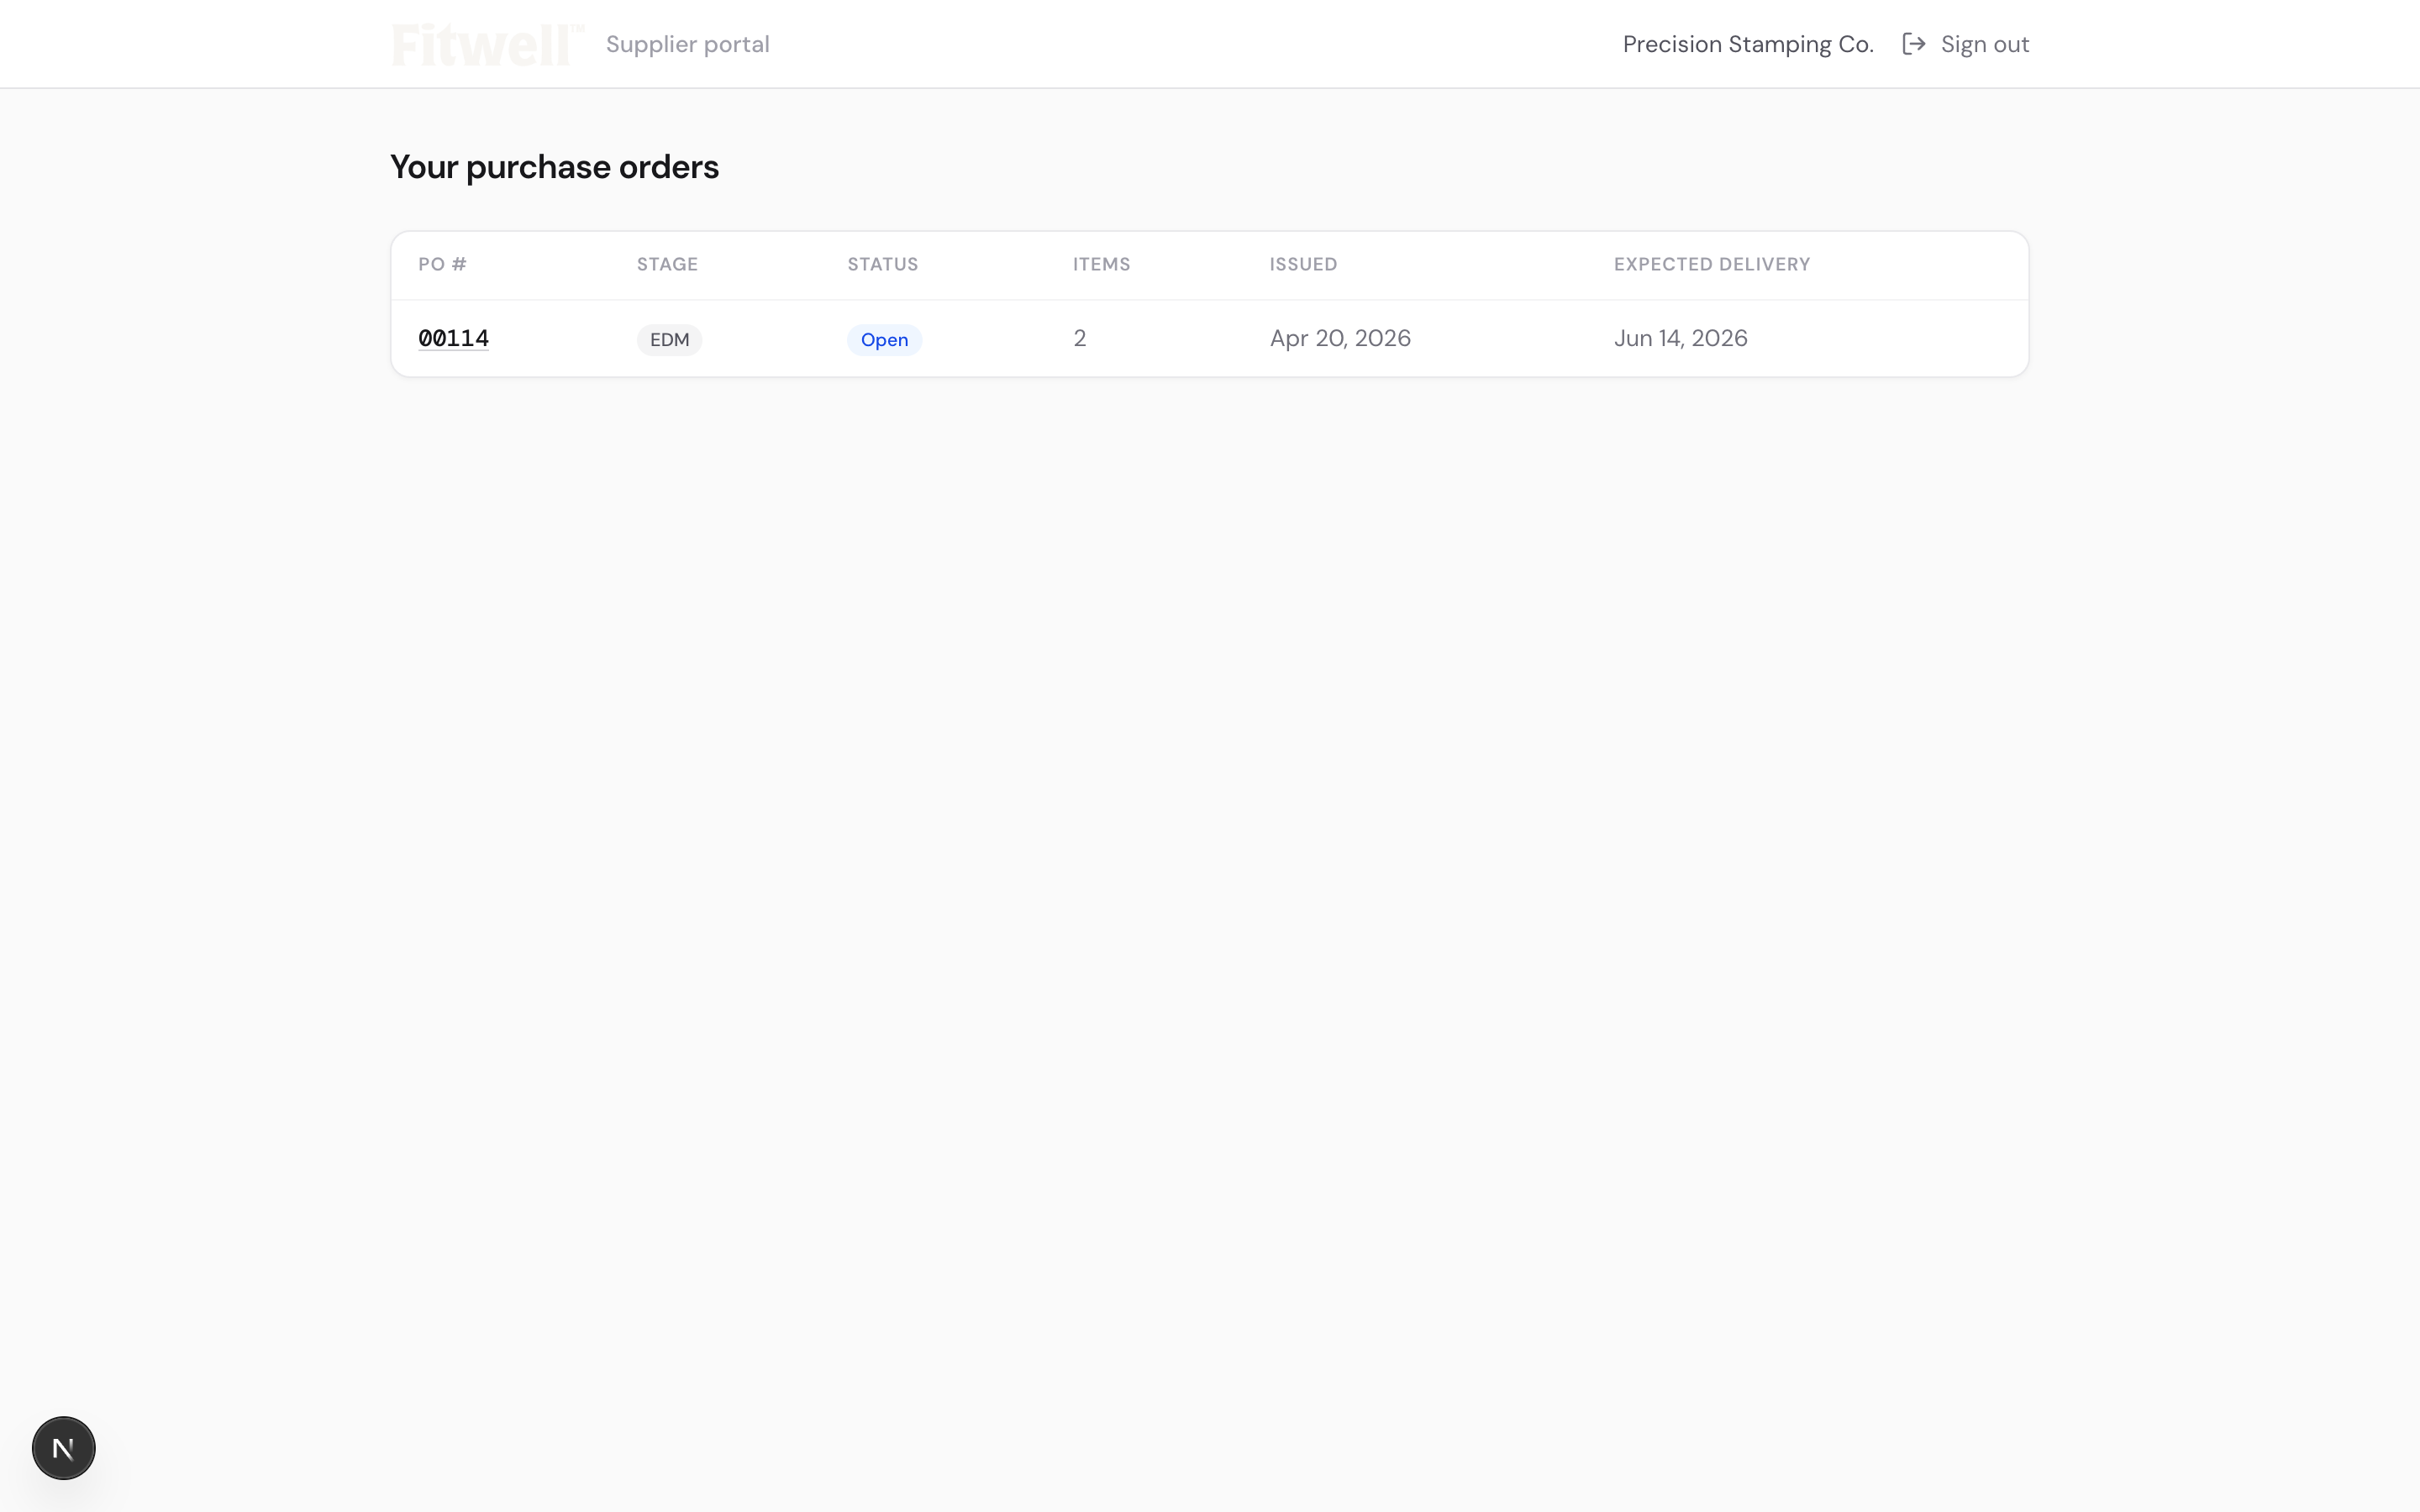
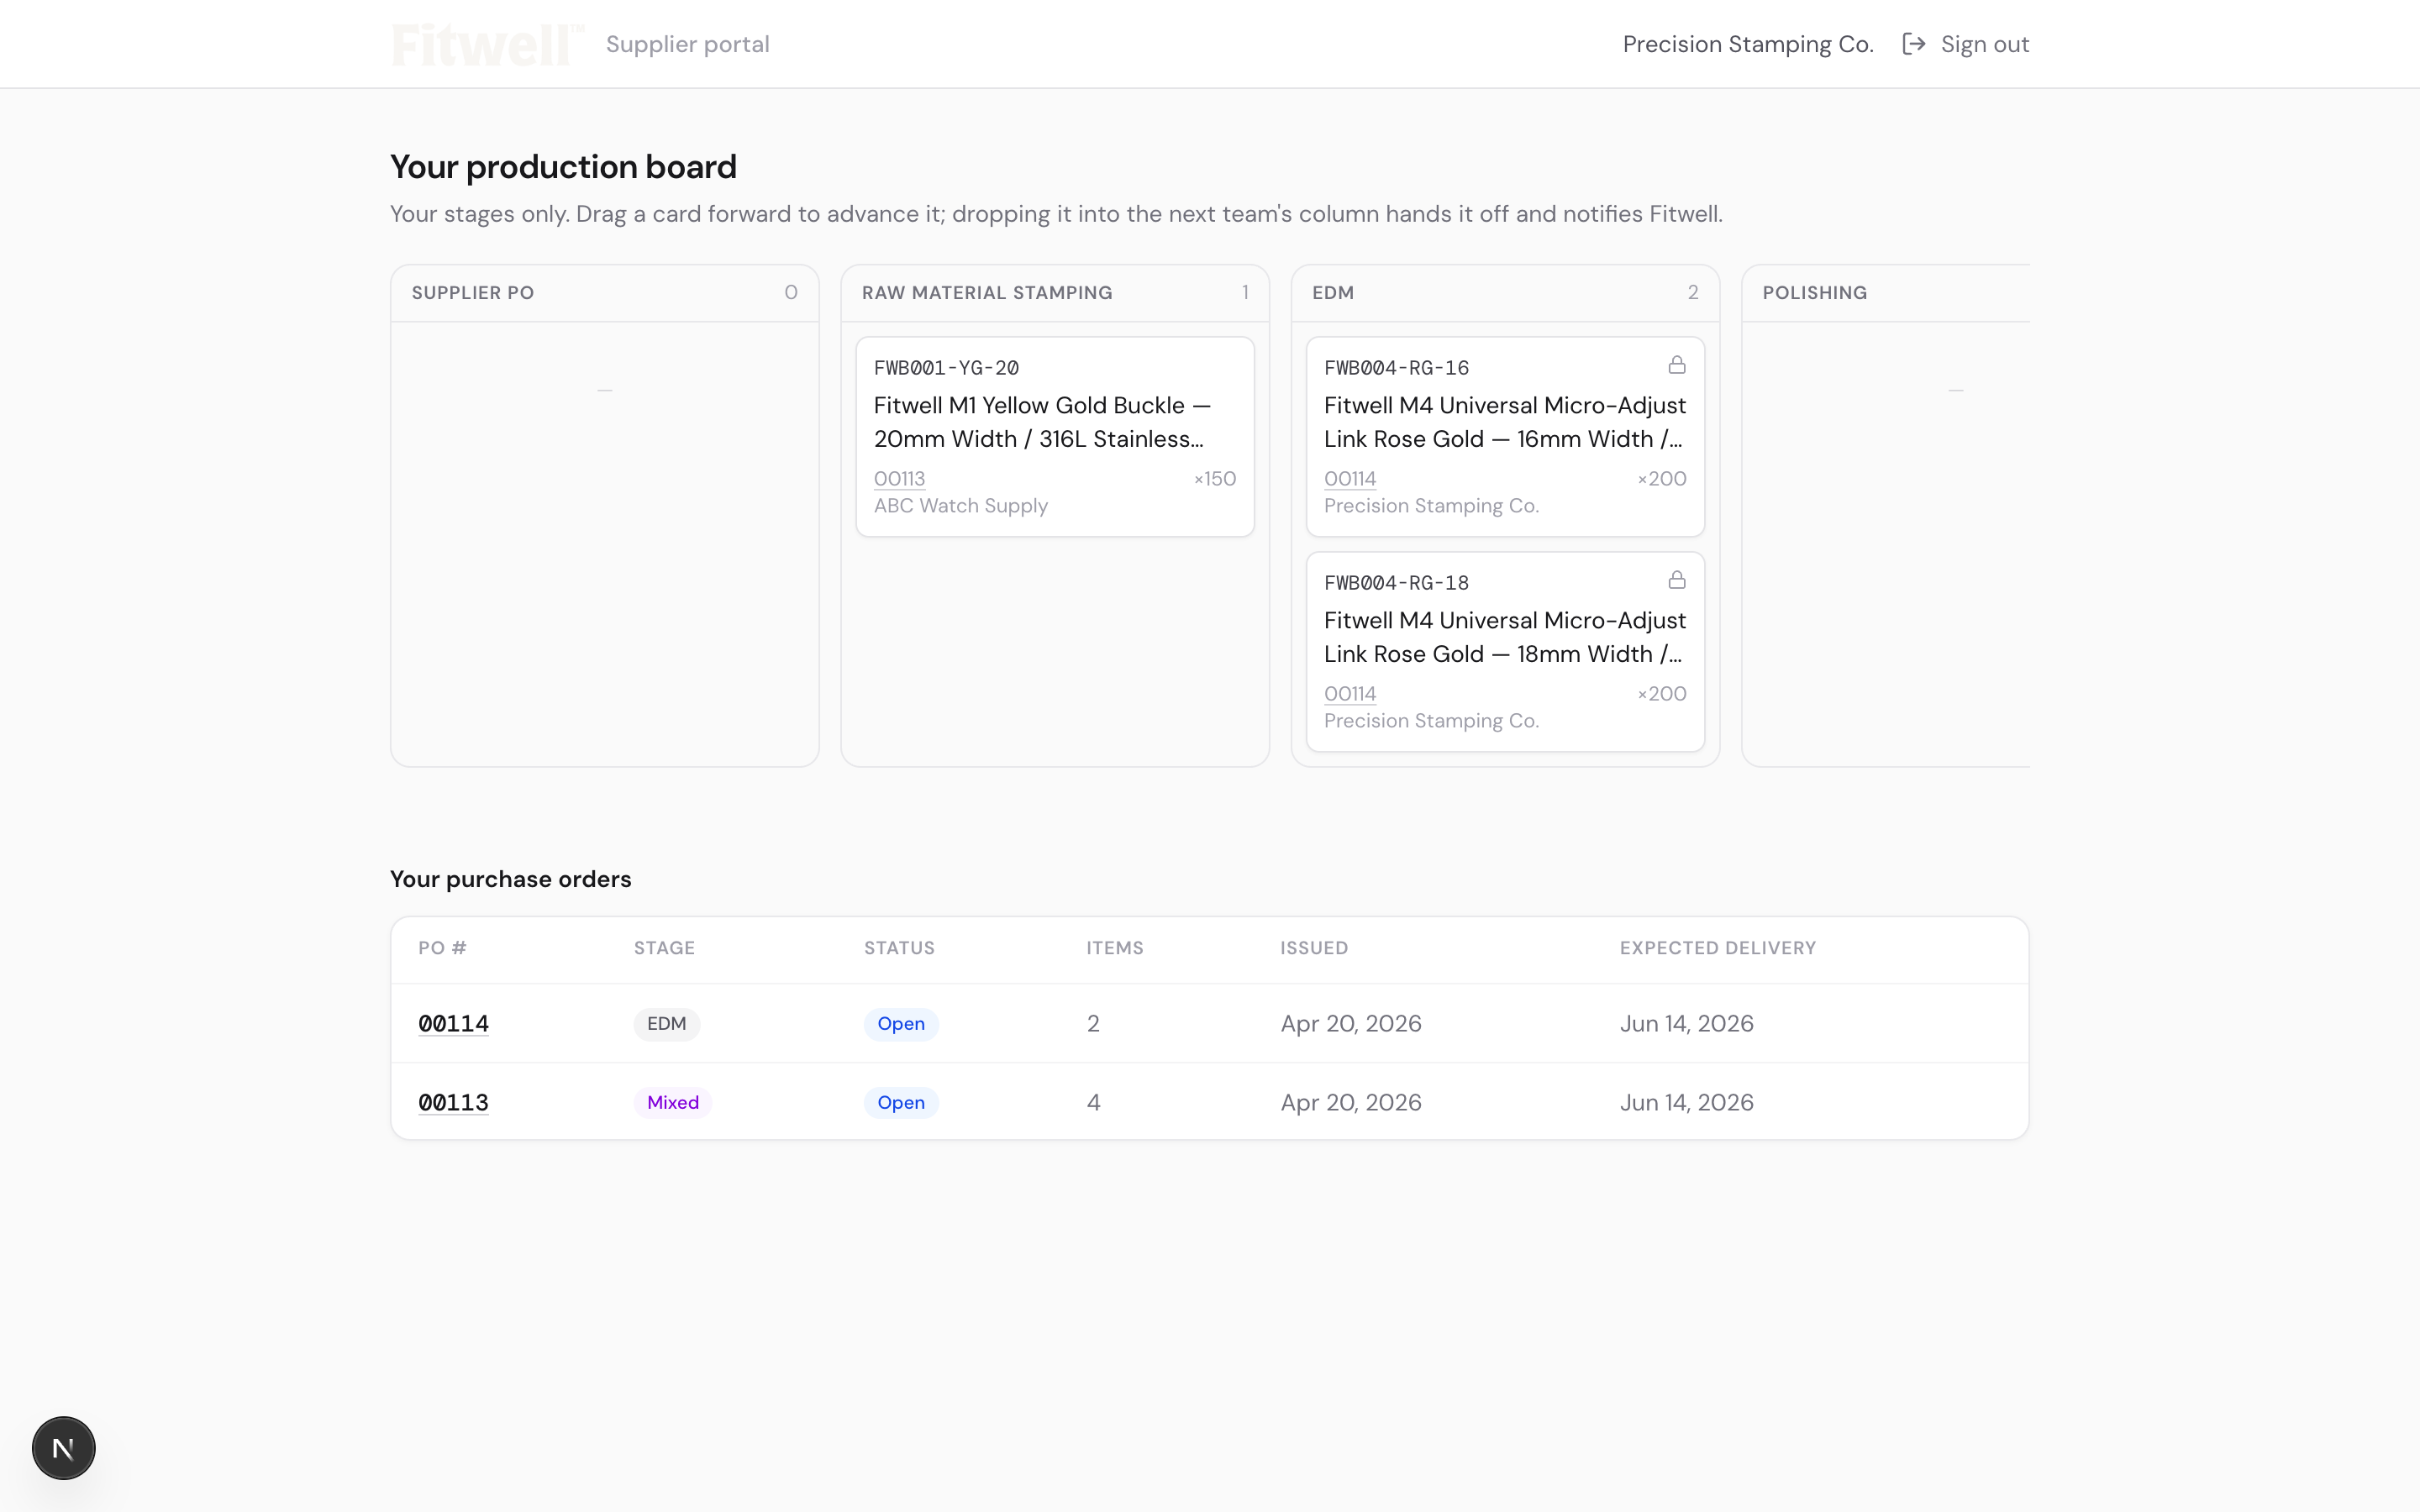
Guide: supplier production board, stage owners, and handoff
Document assigning stage owners on a PO, the supplier's scoped board, and
the handoff → notification flow; re-capture the supplier board screenshot.

diff --git a/src/app/(admin)/docs/guides/guides-data.ts b/src/app/(admin)/docs/guides/guides-data.ts
@@ -64,7 +64,7 @@ export const guides: Guide[] = [
         shot: "The supplier dropdown showing the Add new supplier option.",
       },
       {
-        text: "Set the Issued date and (optionally) an ETA, a Brand (the B2B buyer), and a Warehouse. A brand can also be added inline with “Add new brand”.",
+        text: "Set the Issued date and (optionally) an ETA, a Brand (the B2B buyer), and a Warehouse. A brand can also be added inline with “Add new brand”. In the Stage owners section you can assign each production stage to a different supplier (leave one as “PO supplier” to keep the default) — each supplier then sees only their stages in their portal.",
       },
       {
         text: "Add line items: click the product field, then type to search, or narrow by Collection and the size/colour chips. Pick a product, set the quantity and unit cost.",
@@ -189,8 +189,11 @@ export const guides: Guide[] = [
         shot: "The supplier login screen.",
       },
       {
-        text: "After signing in they see only their own purchase orders — no pricing, customers, or brand info.",
-        shot: "The supplier portal PO list.",
+        text: "After signing in they land on their production board — a kanban that shows only the stages they own (assigned per PO) with their line items in those stages, above the list of their POs. They never see pricing, customers, or other suppliers' work.",
+        shot: "The supplier's production board — their assigned stages only.",
+      },
+      {
+        text: "When a supplier finishes their stage, they drag the card into the next team's column to hand it off — that advances the line and notifies Fitwell (an in-app alert on the Notifications page plus an email).",
       },
       {
         text: "Opening a PO, a supplier can advance its stages, add comments, and upload attachments (e.g. photos, certs). They can't edit quantities or delete anything.",